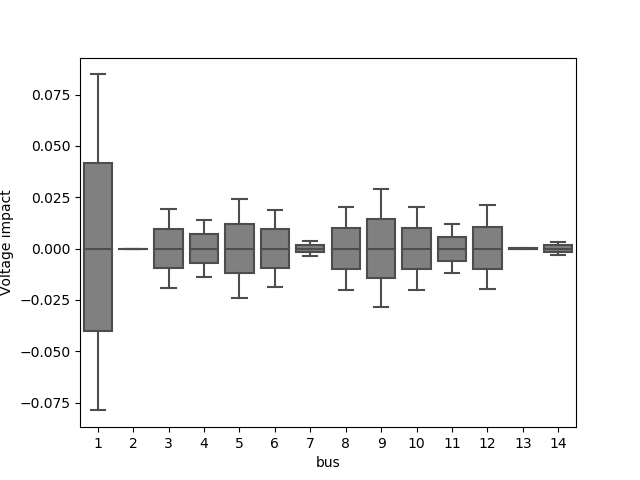
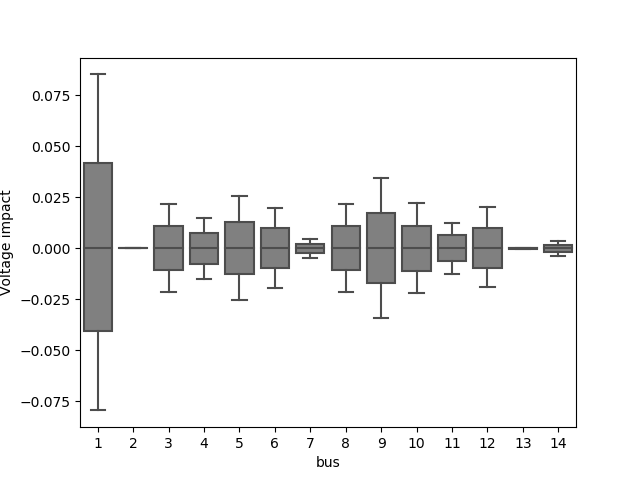
Update on Overleaf.

diff --git a/chapters/discussion.tex b/chapters/discussion.tex
@@ -45,7 +45,7 @@ It might seem troubling that these buses have a much larger nominal values. Howe
     \caption[size = 9]{Bar plot for each of the buses showing their voltage magnitude in nominal operation (A) and after the demand at bus 1 and 12 in \ref{fig:discussion:cigre_network_dominant} is doubled (B). Note that the second axis is truncated}
     \label{fig:discussion:double_large_load}
 \end{figure}
-The dominant buses serve as the starting point for the voltage magnitudes because they are at the beginning of the two feeders. This is true because there are only PQ-buses in the system and no voltage regulating units. The voltage is static at the external grid, and gradually falls as we move down the feeders in periods of peak demand. When bus 1 doubles its demand, it reduces its voltage magnitude which in turn propagates down the feeder and affects all buses in the feeder. The difference in voltage magnitude at each bus before and after the demand increase is almost linear. The reinforcement agent is not allowed to double the demand in the reinforcement algorithm, but figure \ref{fig:discussion:double_large_load} illustrates the decisive effect of the dominant buses in terms of voltage magnitudes.
+The dominant buses serve as the starting point for the voltage magnitudes because they are at the beginning of the two feeders. This is true because there are only PQ-buses in the system and no voltage regulating units. The voltage is static at the external grid, and gradually falls as we move down the feeders in periods of peak demand. The voltage magnitude at bus 1 is reduced when it doubles its demand, which in turn propagates down the feeder and affects all buses in the feeder. The difference in voltage magnitude at each bus before and after the demand increase is almost linear. The reinforcement agent is not allowed to double the demand in the reinforcement algorithm, but figure \ref{fig:discussion:double_large_load} illustrates the decisive effect of the dominant buses in terms of voltage magnitudes.
 
 \begin{figure}[h]
     \center
@@ -54,30 +54,36 @@ The dominant buses serve as the starting point for the voltage magnitudes becaus
     \label{fig:discussion:voltage_impact}
 \end{figure}
 
-
-Let the voltage and current impact of a bus respectively be defined as the sum of the changes in voltage and current load in the net when modifying the demand at that bus by a certain percent. Note that the rest of the buses are left unchanged when calculating the impact. The predefined demand values in the CIGRE network correspond to an hour of peak demand, with low voltage magnitudes in the grid. Decreasing the power demand at a bus with a high voltage impact has a large potential of pulling the voltage magnitudes into the safety bounds. The same is true for a bus with a high current impact.
-
-
-Figure \ref{fig:discussion:voltage_impact} plots the voltage impact for each bus in hours of peak demand, where the flexibility of demand ranges from -20 to +20 \%. The lower part of the box plots correspond to increasing the demand by 20 \%, since increasing the consumption in peak demand lowers the voltage magnitudes in the grid. As already discussed, bus 1 have a very large voltage impact, because it is at the top of feeder 1. 
+A measure of impact is needed to systematically investigate the effects of changing the demand at a bus. Let the voltage and current impact of a bus respectively be defined as the sum of the changes in voltage and current loading in the net when modifying the demand at that bus by a certain percent. For instance, the voltage impact of bus 1 shown in figure \ref{fig:discussion:double_large_load} is the voltage difference of scenario A and B, summed over all buses. The same can be done for the current impact, which is the difference in current loading (between 0\% and 100 \%) summed over all lines. Note that the rest of the buses are left unchanged when calculating the impact. The impact of a bus will be discussed the two critical periods of the day, namely peak solar production and peak demand. For peak solar production, the average demand and maximum solar production at 12 am are used to define the values for consumption and production. For peak demand, the average solar production and maximum demand at 7 pm is used. 
 
 
-Figure \ref{fig:discussion:current_impact} plots the current loading impact in peak demand hours for the buses in the net. The buses with highest current impact (5,6,9,10) are all located far down in feeder 1. A change in demand at them has consequences for several lines, because the current they draw must travel through the lines in the top of the feeder.
+Figure \ref{fig:discussion:voltage_impact} plots the voltage impact during peak demand for each bus where the demand change ranges from -20 to +20 \%. The lower part of the box plots correspond to increasing the demand by 20 \%, since increasing the consumption in peak demand lowers the voltage magnitudes in the grid. As already discussed, bus 1 have a large voltage impact, because it is at the top of feeder 1. 
+
+
+Figure \ref{fig:discussion:current_impact} plots the current loading impact in peak demand hours for the buses in the net. The lower part of the box plots corresponds to decreasing the consumption, since less current is needed to supply the demand. The buses with highest current impact (5,6,9,10) are all located far down in feeder 1. A change in demand at them has consequences for several lines, because the current they draw must travel through the lines in the top of the feeder. As discussed, the current loading impact is low for the dominant buses (1 and 12), despite the fact that they account for nearly 90 \% of the consumption in the system. 
 
 
 \begin{figure}[h]
     \center
 \includegraphics[height=8cm, width=12cm]{figures/current_impact.png}
-    \caption[size = 9]{Box plot for each bus bar showing the current importance for a demand change ranging from -20 to + 20 \% in an hour of peak demand}
+    \caption[size = 9]{Box plot for each bus bar showing the current importance during peak demand for a demand change ranging from -20 to + 20 \%}
     \label{fig:discussion:current_impact}
 \end{figure}
 
-So far the impacts of the buses have been investigated in hours of peak demand. A similar simulation in for an hour of peak solar production can be done to show the impact of the buses in the second critical period. The impact relation between the buses in peak solar hours is similar to the peak demand period, but the magnitude differs a lot. Figure \ref{fig:discussion:current_impact_demand_solar} plots the current impact factor for each bus when the demand is increased by 10\% in hours of peak demand and peak solar production. The current impacts in peak solar production are lower in all cases. The reason is that the power consumption is generally lower during peak solar production. The mean demand in the hour of maximum solar production (12 am) is 40 \% lower than the mean peak demand value at 8 pm. 
+So far the impacts of the buses have been investigated in hours of peak demand. A similar simulation in an hour of peak solar production can be done to show the impact of the buses in the second critical period. The impact relation between the buses in peak solar hours is similar to the peak demand period. In other words, if a bus has a large impact in peak demand, it also has large impact during peak solar production compared to the other buses. However, the magnitude differs a lot for the two critical periods. Figure \ref{fig:discussion:current_impact_demand_solar} plots the current loading impact factor for each bus when the demand is increased by 10\% in hours of peak demand and peak solar production. The current impacts in peak solar production are lower in all cases, except for bus 1. Similarly, figure     \ref{fig:discussion:voltage_impact_demand_solar} show the difference in voltage impact during peak demand and peak solar production. The impacts differ because the power consumption generally is lower during peak solar production. The mean demand in the hour of maximum solar production (12 am) less than half of the max demand value at 7 pm. Consequently, changing the demand by 10 \% at 12 am results in a absolute power change that is about half the change during peak demand. The agent simply has less muscles during peak solar production, because it is physically impossible to affect the grid as much as in the afternoon during peak demand. This can explain why the trained agent performs well i periods of peak demand and poorly in periods of peak solar production.
 
 \begin{figure}[h]
     \center
 \includegraphics[height=8cm, width=12cm]{figures/current_impact_demand_solar.png}
-    \caption[size = 9]{Current impact of all the buses in an hour of peak demand and peak solar production}
+    \caption[size = 9]{Current impact of all the buses in an hour of peak demand and peak solar production. The demand is changed by 10 \%}
     \label{fig:discussion:current_impact_demand_solar}
+\end{figure}
+
+\begin{figure}[h]
+    \center
+\includegraphics[height=8cm, width=12cm]{figures/voltage_impact_demand_solar.png}
+    \caption[size = 9]{Voltage impact of all the buses in an hour of peak demand and peak solar production. The demand is changed by 10 \%}
+    \label{fig:discussion:voltage_impact_demand_solar}
 \end{figure}
 
 \section{Performance of the trained agent}
